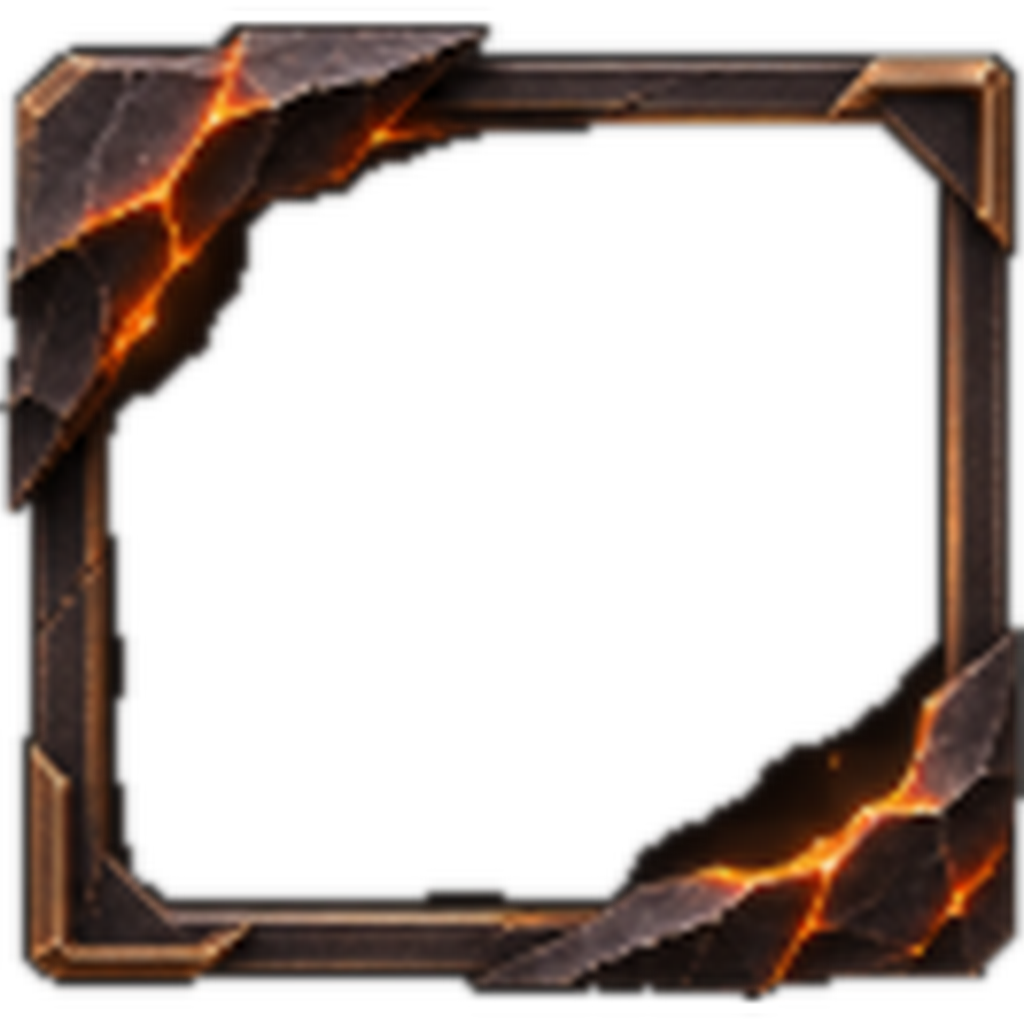
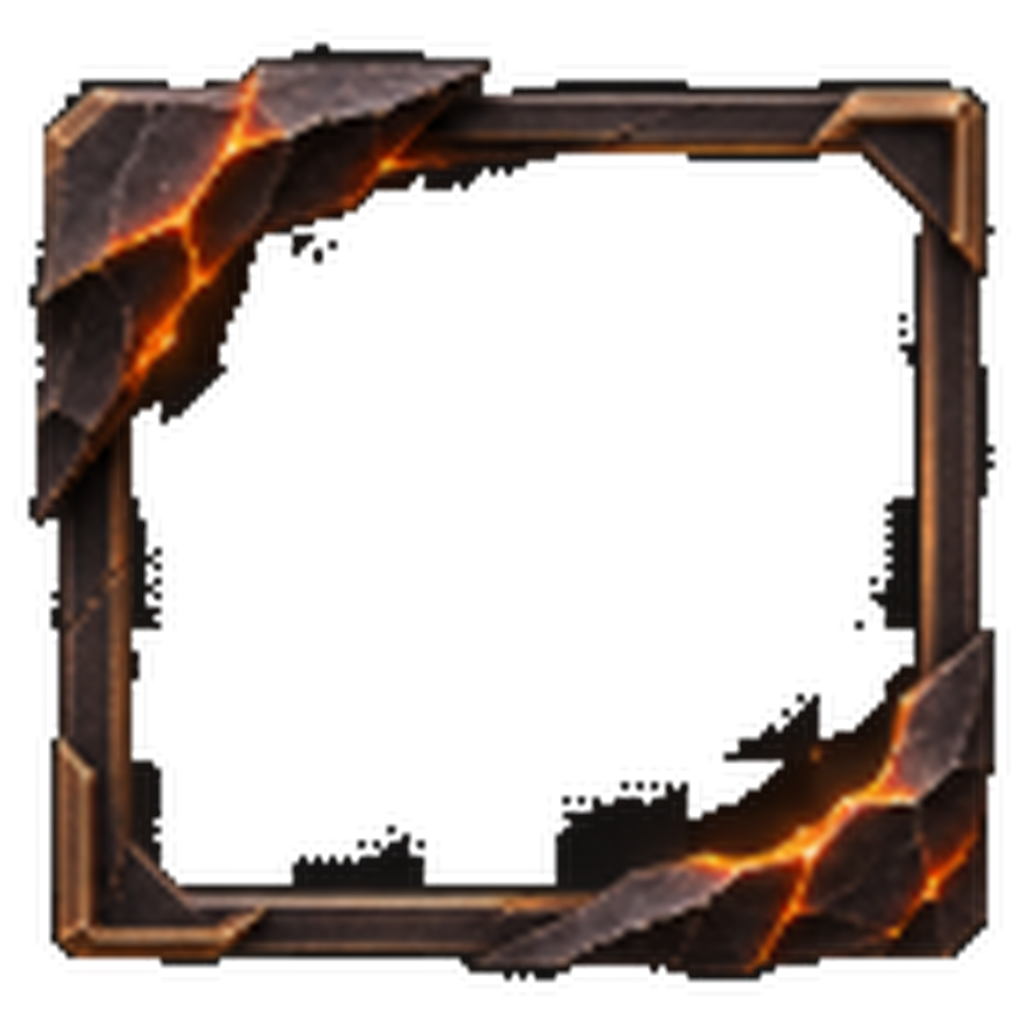
Use cleaner Ember Index artwork; normalize shop size, 1.67 profile
Swap in the supplied obsidian/lava frame, keyed from its checkerboard export and trimmed so the opaque square fills ~94% of the asset (matching the other painted frames in the shop). The profile now uses the shared 1.67 scale, with a re-centered portrait and regenerated opening masks.

diff --git a/components/phase4/phase4.css b/components/phase4/phase4.css
@@ -404,17 +404,18 @@
   -webkit-mask-position: center;
   -webkit-mask-repeat: no-repeat;
 }
-/* Ember Index's painting is a thin obsidian border around an ~81% opening.
-   The portrait is centred and clipped to the opening; the corner shards lap
-   over it. */
+/* Ember Index's painting is an obsidian border around a ~77% opening. Its
+   opaque square fills ~94% of the asset, so at the shared 1x shop scale it
+   reads the same size as the other painted frames. The portrait is centred
+   and clipped to the opening; the corner shards lap over it. */
 .p4-art[data-cosmetic="ember-index"][data-frame="true"] .p4-art-frame-image {
   transform: scale(1);
   transform-origin: center;
 }
 .p4-art[data-cosmetic="ember-index"][data-frame="true"] .p4-art-portrait {
-  inset: 7.5% auto auto 7.5%;
-  width: 85%;
-  height: 85%;
+  inset: 5.4% auto auto 5.4%;
+  width: 89.1%;
+  height: 89.1%;
   transform: none;
   filter: none;
   box-shadow: none;
@@ -979,10 +980,10 @@
   -webkit-mask-repeat: no-repeat;
 }
 .rr2-root .rr2-profile-avatar[data-cosmetic="aurora-meridian"]::after { display: none; }
-/* Ember Index's obsidian border is thinner than the other painted frames, so
-   at 1.4 its ~81% opening reads at ~113% of the avatar box (matching
-   Voidglass) while the outer square matches Graphite. The portrait is centred
-   and the mask clips it to the opening; the shards lap its corners. */
+/* Ember Index's obsidian square fills ~94% of its asset and its opening is
+   ~77%, so at the shared 1.67 profile scale the outer square matches the other
+   painted frames while the window reads ~129% of the avatar box. The portrait
+   is centred and the mask clips it to the opening; the shards lap its corners. */
 .rr2-root .rr2-profile-avatar[data-cosmetic="ember-index"] {
   border: 0;
   outline: none;
@@ -998,15 +999,15 @@
   border-radius: 0;
   background: var(--p4-frame-img) center / 100% 100% no-repeat;
   mix-blend-mode: normal;
-  transform: scale(1.4);
+  transform: scale(1.67);
   transform-origin: center;
 }
 .rr2-root .rr2-profile-avatar[data-cosmetic="ember-index"] > img {
   position: absolute;
-  left: -10%;
-  top: -10%;
-  width: 120%;
-  height: 120%;
+  left: -23.8%;
+  top: -23.8%;
+  width: 147.5%;
+  height: 147.5%;
   max-width: none;
   object-fit: cover;
   filter: none;
